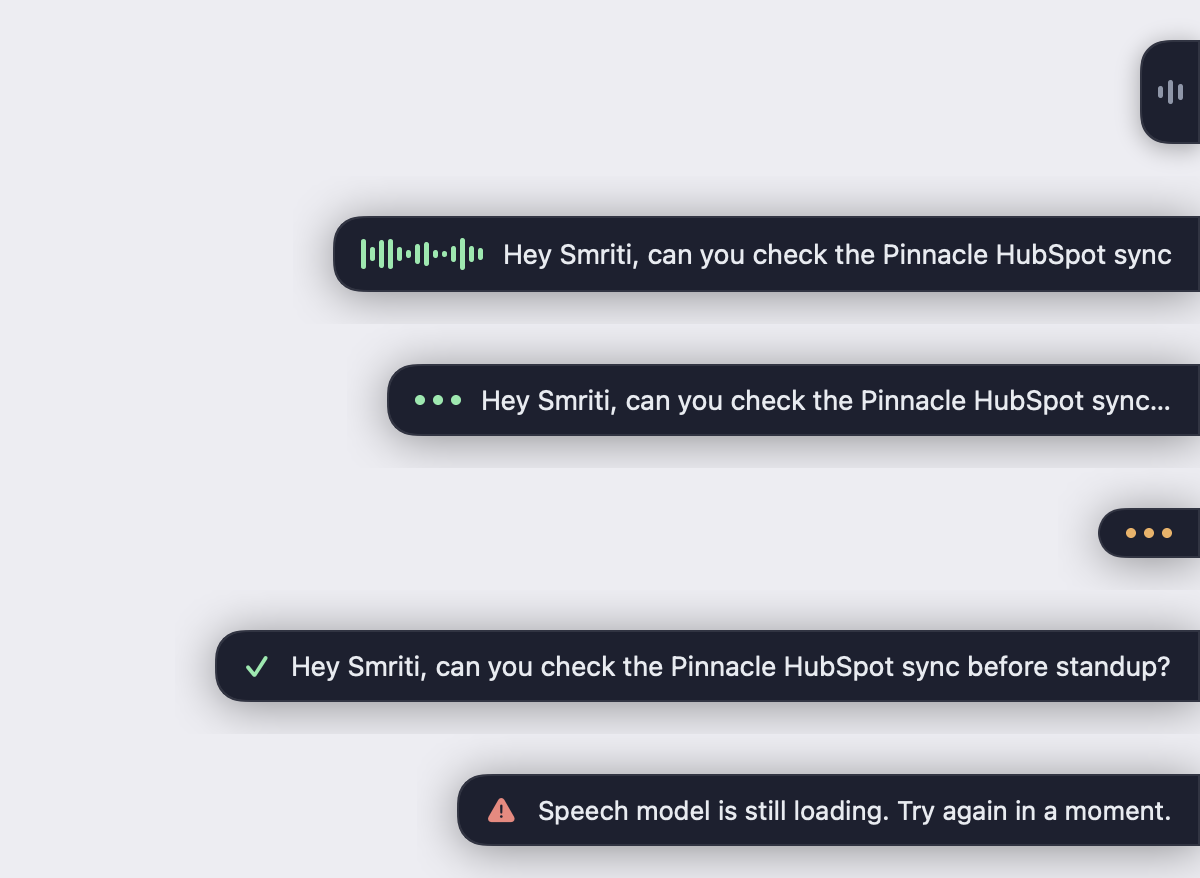
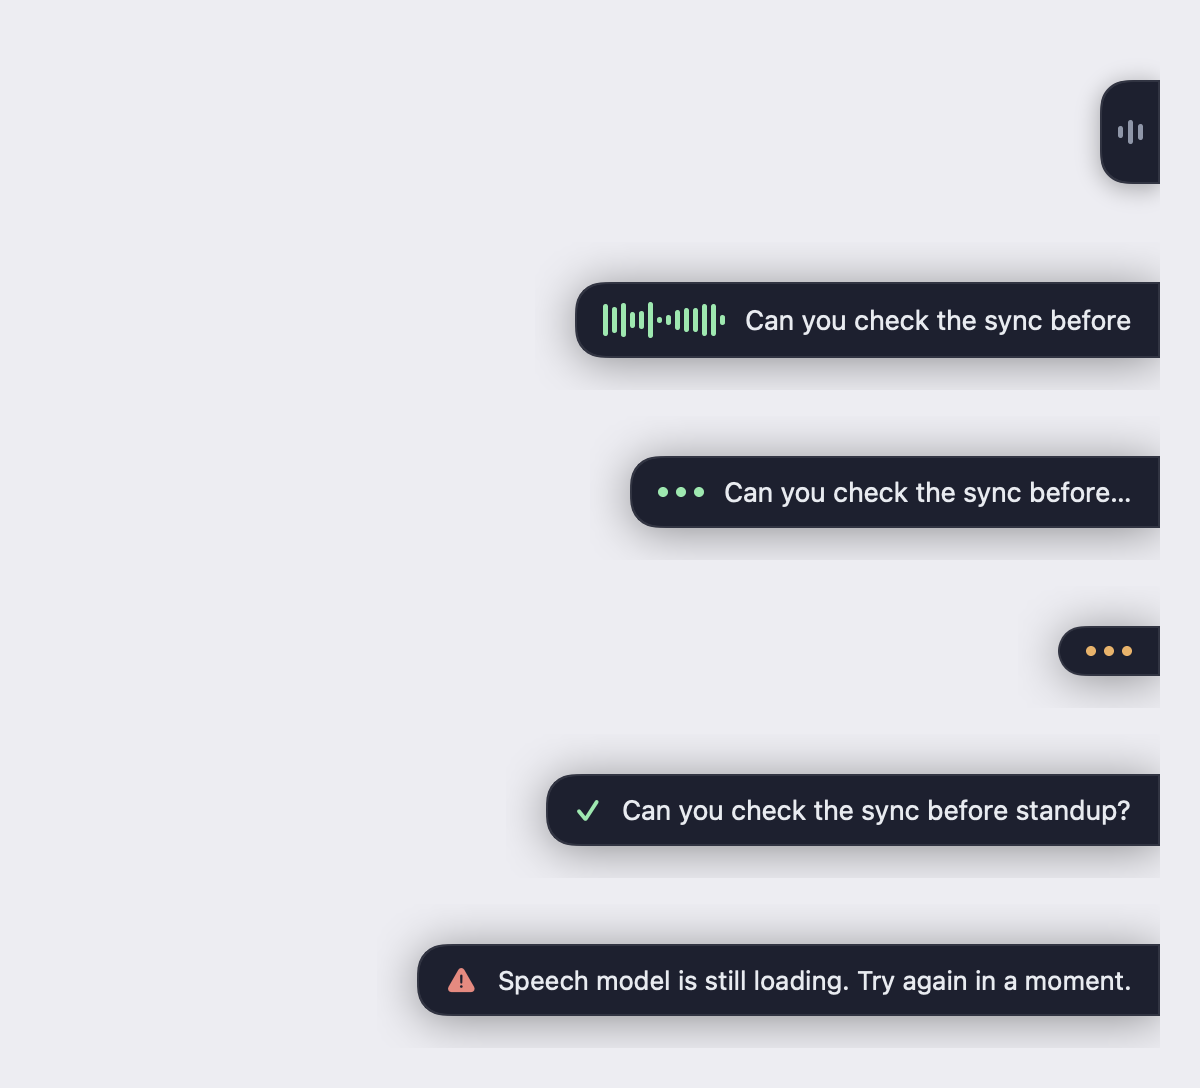
docs: neutral sample sentence in the states render; regenerate states.png

diff --git a/Sources/Speakhold/main.swift b/Sources/Speakhold/main.swift
@@ -38,12 +38,12 @@ import UniformTypeIdentifiers
 @MainActor func renderOverlay(dir: String) {
     let states: [(String, OverlayModel.Phase)] = [
         ("idle", .idle), ("listening", .listening), ("transcribing", .transcribing), ("cleaning", .cleaning),
-        ("done", .done("Hey Smriti, can you check the Pinnacle HubSpot sync before standup?")),
+        ("done", .done("Can you check the sync before standup?")),
         ("error", .error("Speech model is still loading. Try again in a moment."))]
     for (name, phase) in states {
         let m = OverlayModel(); m.phase = phase
         m.levels = (0..<28).map { _ in Float.random(in: 0.1...1) }
-        if phase == .listening || phase == .transcribing { m.liveText = "Hey Smriti, can you check the Pinnacle HubSpot sync" }
+        if phase == .listening || phase == .transcribing { m.liveText = "Can you check the sync before" }
         let r = ImageRenderer(content: OverlayView(model: m).background(Color(red: 0.93, green: 0.93, blue: 0.95)))
         r.scale = 2
         guard let cg = r.cgImage else { print("render failed", name); continue }
